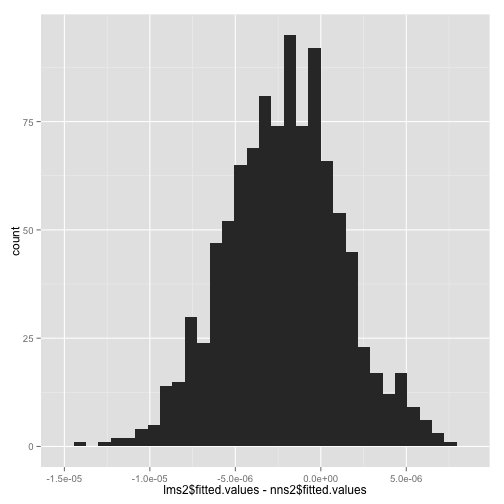
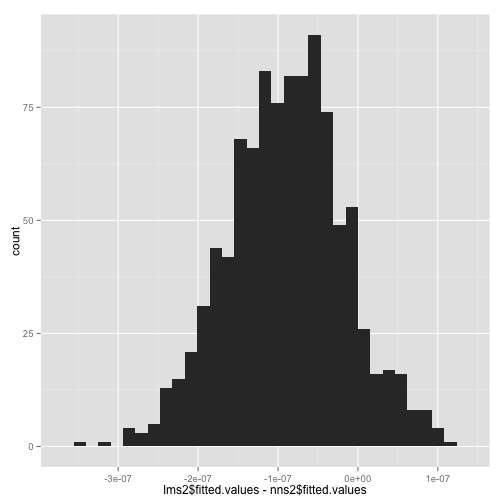
update var names

diff --git a/_posts/2015-10-21-neural-network-iv-simulated.md b/_posts/2015-10-21-neural-network-iv-simulated.md
@@ -17,15 +17,55 @@ Some simulated data, borrowed from [this post](http://jacobsimmering.com/2014/01
 library(MASS)
 # same random numbers
 set.seed(123)
-# we are really generating x* and c and using a common variance
-xStarAndC <- mvrnorm(1000, c(20, 15), matrix(c(1, 0.5, 0.5, 1), 2, 2))
-xStar <- xStarAndC[, 1]
-c <- xStarAndC[, 2]
+
+# the means and errors for the multivariate distribution
+MUs    <- c(10,15)
+SIGMAs <- matrix(c(1,   0.5,
+                   0.5, 2   ),
+                 nrow=2,
+                 ncol=2       )
+
+# the multivariate distribution
+mdist <- mvrnorm(n     = 1000,
+                 mu    = MUs,
+                 Sigma = SIGMAs)
+
+# create unobserved covariate
+c <- mdist[ , 2]
+
+# create the instrumental variable
 z <- rnorm(1000)
-x <- xStar + z
-# using 1 makes it easy to estimate how 'wrong' an estimator is and toss
-# some noise on y
+
+# create observed variable
+x <- mdist[ , 1] + z
+
+# constuct the dependent variable
 y <- 1 + x + c + rnorm(1000, 0, 0.5)
+{% endhighlight %}
+
+Check if the variables behave as expected
+
+
+{% highlight r %}
+cor(x, c)
+{% endhighlight %}
+
+
+
+{% highlight text %}
+## [1] 0.1986307
+{% endhighlight %}
+
+
+
+{% highlight r %}
+cor(z, c)
+{% endhighlight %}
+
+
+
+{% highlight text %}
+## [1] -0.0120011
 {% endhighlight %}
 
 Let's look at the true model.
@@ -44,7 +84,7 @@ lm(y ~ x + c)
 ## 
 ## Coefficients:
 ## (Intercept)            x            c  
-##      0.8202       1.0165       0.9897
+##      0.9079       1.0156       0.9955
 {% endhighlight %}
 
 Estimate using OLS.
@@ -63,7 +103,7 @@ lm(y ~ x)
 ## 
 ## Coefficients:
 ## (Intercept)            x  
-##      10.481        1.278
+##      13.787        1.226
 {% endhighlight %}
 
 Now using instrumental variables.
@@ -71,19 +111,24 @@ Now using instrumental variables.
 
 {% highlight r %}
 library(AER)
+{% endhighlight %}
+
+
+
+{% highlight text %}
+## Error in library(AER): there is no package called 'AER'
+{% endhighlight %}
+
+
+
+{% highlight r %}
 ivreg(y ~ x | z)
 {% endhighlight %}
 
 
 
 {% highlight text %}
-## 
-## Call:
-## ivreg(formula = y ~ x | z)
-## 
-## Coefficients:
-## (Intercept)            x  
-##      15.570        1.023
+## Error in eval(expr, envir, enclos): could not find function "ivreg"
 {% endhighlight %}
 
 Now using the `lm` function.
@@ -109,7 +154,7 @@ lmXhat <- lms1$coefficients[2]*z + lms1$coefficients[1]
 ## 
 ## Coefficients:
 ## (Intercept)       lmXhat  
-##      15.570        1.023
+##      15.949        1.008
 {% endhighlight %}
 
 Now using a neural network
@@ -126,8 +171,8 @@ nns1 <- nnet(x ~ z, size=0, skip=TRUE, linout=TRUE)
 
 {% highlight text %}
 ## # weights:  2
-## initial  value 401097.863581 
-## final  value 915.649356 
+## initial  value 98765.653982 
+## final  value 924.804075 
 ## converged
 {% endhighlight %}
 
@@ -145,8 +190,8 @@ nns2 <- nnet(y ~ nnXhat, size=0, skip=TRUE, linout=TRUE)
 
 {% highlight text %}
 ## # weights:  2
-## initial  value 869603.061622 
-## final  value 3188.205431 
+## initial  value 874286.766246 
+## final  value 4019.409973 
 ## converged
 {% endhighlight %}
 
@@ -162,7 +207,7 @@ summary(nns2)
 ## a 1-0-1 network with 2 weights
 ## options were - skip-layer connections  linear output units 
 ##  b->o i1->o 
-## 15.57  1.02
+## 15.95  1.01
 {% endhighlight %}
 
 Compare output.
@@ -175,8 +220,8 @@ lms2$coefficients - nns2$wts
 
 
 {% highlight text %}
-##   (Intercept)        lmXhat 
-##  6.950751e-05 -3.589171e-06
+## (Intercept)      lmXhat 
+##  1.0366e-06 -1.1273e-07
 {% endhighlight %}
 
 Compare estimates.
